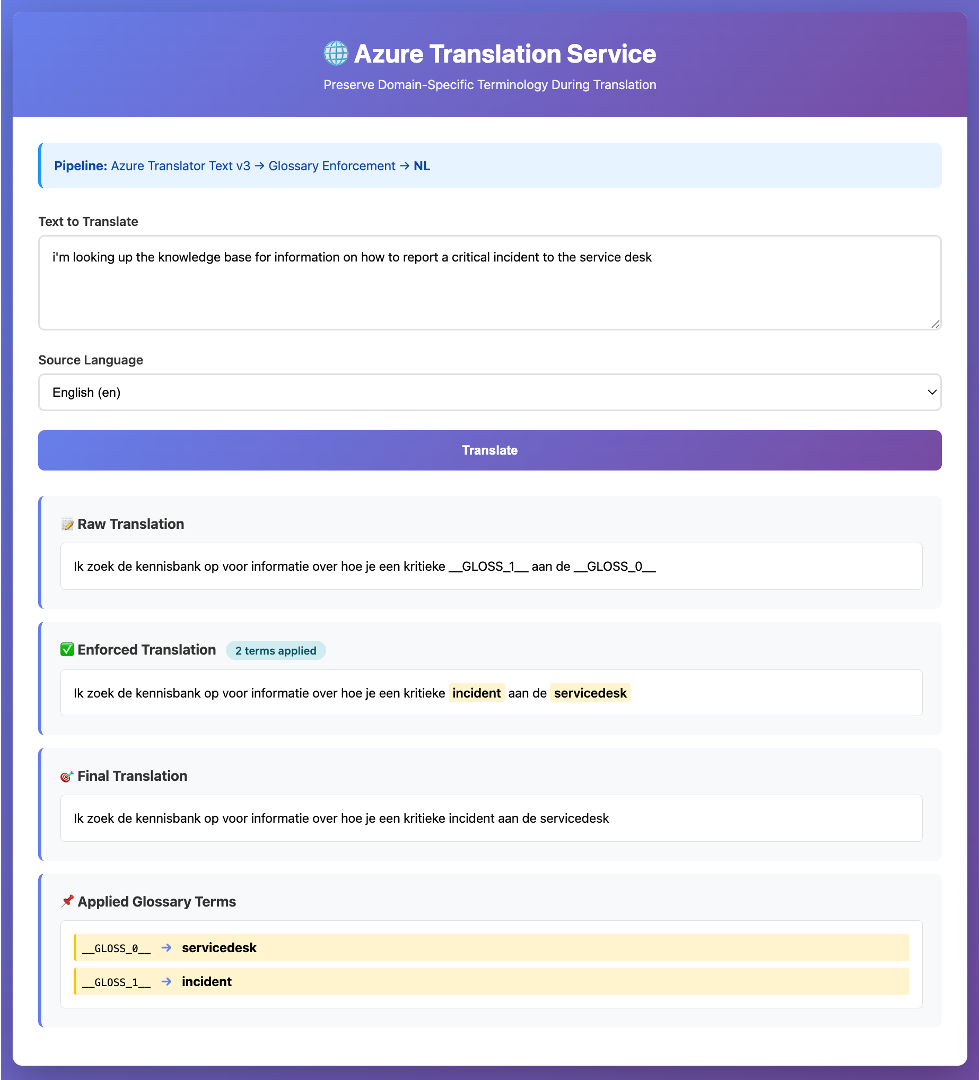
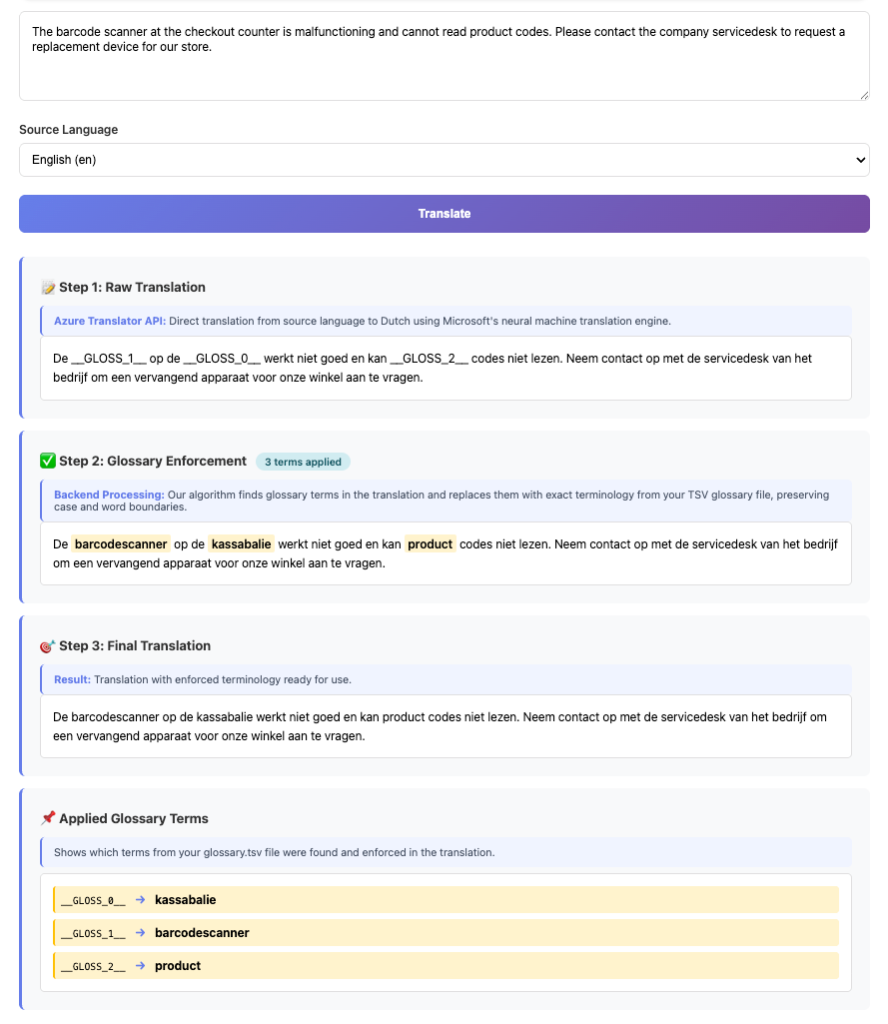
Update README.md to enhance demonstration description and replace demo image

diff --git a/README.md b/README.md
@@ -8,11 +8,7 @@
 
 A production-ready service for translating text to any target language using **Azure Translator Text v3** with **Custom Translator** categories and deterministic **TSV glossary enforcement**. Preserve domain-specific terminology while improving fluency with optional **Azure OpenAI** post-editing.
 
-<p align="center">
-  <img src="assets/screenshot.png" alt="Translation Service Demo" width="800">
-</p>
-
-*Live demonstration showing glossary term enforcement: "critical incident" → "incident" and "service desk" → "servicedesk" are correctly preserved from the glossary during translation.*
+> **Live demonstration:** The service enforces glossary terms like "critical incident" → "incident" and "service desk" → "servicedesk", preserving them correctly during translation.
 
 ## 🎯 The Problem This Solves
 
